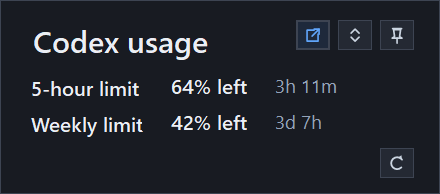
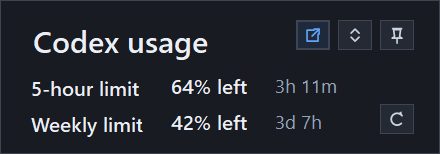
Keep compact view slim with refresh control

diff --git a/src/CodexUsageTray/UI/UsagePopupForm.cs b/src/CodexUsageTray/UI/UsagePopupForm.cs
@@ -39,12 +39,13 @@ internal sealed class UsagePopupForm : Form
     internal bool InferenceDividerPaddingIsBalanced =>
         todayTitle.Top - limitsDivider.Bottom == inferenceDivider.Top - lifetimeTitle.Bottom;
 
-    internal bool CompactRefreshFooterIsCorrect =>
+    internal bool CompactRefreshLayoutIsCorrect =>
         compactView
         && refreshButton.Visible
         && !updatedLabel.Visible
         && ClientSize.Width - refreshButton.Right == 26
-        && ClientSize.Height - refreshButton.Bottom == 16;
+        && ClientSize.Height - refreshButton.Bottom == 20
+        && weeklyReset.Right + 10 <= refreshButton.Left;
 
     public UsagePopupForm()
     {
@@ -232,7 +233,7 @@ internal sealed class UsagePopupForm : Form
     private void ApplyViewMode(bool compact, bool preserveBottom)
     {
         var previousBottom = Bottom;
-        var targetHeight = compact ? 194 : 416;
+        var targetHeight = compact ? 154 : 416;
         compactView = compact;
 
         statusLabel.Visible = !compact;
@@ -259,8 +260,8 @@ internal sealed class UsagePopupForm : Form
             weeklyValue.Location = new Point(142, 107);
             weeklyValue.Size = new Size(112, 24);
             weeklyReset.Location = new Point(270, 109);
-            weeklyReset.Size = new Size(144, 22);
-            refreshButton.Location = new Point(380, 148);
+            weeklyReset.Size = new Size(100, 22);
+            refreshButton.Location = new Point(380, 104);
         }
         else
         {

diff --git a/src/CodexUsageTray/Diagnostics/SelfTest.cs b/src/CodexUsageTray/Diagnostics/SelfTest.cs
@@ -84,7 +84,7 @@ internal static class SelfTest
         try
         {
             popup.SetViewModeForScreenshot(compact: true);
-            Assert(popup.CompactRefreshFooterIsCorrect, "compact view has a refresh-only footer");
+            Assert(popup.CompactRefreshLayoutIsCorrect, "compact refresh button fits without extra height");
         }
         finally
         {
